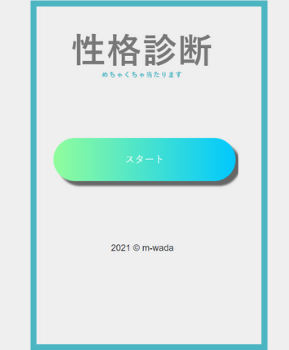
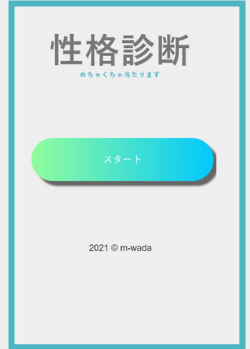
説明追加

diff --git a/resources/sass/sample.scss b/resources/sass/sample.scss
@@ -523,9 +523,8 @@ p {
 
 .main-heading-primary {
     display: block;
-    font-size: 3.5rem;
+    font-size: 3.0rem;
     font-weight: bold;
-    letter-spacing: 2px;
     animation: moveInLeft 1s ease-out;
 }
 
@@ -612,4 +611,27 @@ $line:#06C152;
         background-image: none;
         color: #efefef;
     }
+}
+
+// ＝＝＝＝＝＝＝＝＝＝＝＝＝＝＝＝＝修正分
+.explanation {
+    color: #777;
+    font-size: 10px;
+}
+
+.explanation_word {
+    display: flex;
+}
+
+.neta {
+    width: 250px;
+}
+
+.flow {
+    font-weight: bold;
+}
+
+.explanation_sentence {
+    font-size: 12px;
+    font-weight: bold;
 }

diff --git a/resources/views/about.blade.php b/resources/views/about.blade.php
@@ -1,35 +1,62 @@
 @extends('master')
 @section('content')
 
+<h2 class="sentence mt-4 mb-4 font-weight-bold">相手の性格診断結果を作るいたずら</h2>
+<div class="mb-3">
+    <img src="{{ asset('images/hack.png')}}" class="img-responsive neta">
+</div>
+<p class="explanation">いたずらをしましょう。</p>
+<p class="explanation">騙す相手の性格診断結果を自分が作成します。そして</p>
+<p class="explanation">「めちゃくちゃ当たる性格診断あるからやってみて」と騙す相手に渡してください</p>
+
+<p class="explanation mt-2 mb-2 explanation_sentence">診断結果にあなたが作成したものが表示されます。
+</p>
+
+<p class="explanation">「え！？めちゃくちゃあたってね？？」と相手がうろたえてる様を見てニヤニヤできるいたずらです。</p>
+<p class="explanation">占いとか診断結果にかこつけて日頃の不満をぶつけるでもいいです。※自己責任</p>
+
+
+
+<h3 class="sentence flow mt-5 mb-2">流れ</h3>
 <div class="title mb-3 text-left mt-3">
     <h4 class="sentence">
-        <span>1.</span>あなたが相手の性格診断結果を作成します</h4>
+        <span>1.</span>あなたが騙す相手の性格診断結果を作成します</h4>
     </div>
     <div class="mb-5">
-        <img src="{{ asset('images/about.png')}}" class="img-responsive">
+        <img src="{{ asset('images/about1.png')}}" class="img-responsive">
     </div>
 
     
-    <div class="title mb-4 text-left">
+    <div class="title text-left">
         <h4 class="sentence">
-            <span>2.</span>偽性格診断のURLが作成されますので<br>コピー or そのまま偽性格診断</h4>
-        </div>
-        
-        <div class="title mb-3 text-left">
-            <h4 class="sentence">
-                <span>3.</span>相手に性格診断をさせます。どうでもいい質問が5問出題されます</h4>
-            </div>
-            <div class="mb-5">
-                <img src="{{ asset('images/about2.png')}}" class="img-responsive">
-            </div>
-
-
-    <div class="title mb-3 text-left">
-        <h4 class="sentence">
-            <span>4.</span>診断結果にあなたの作成されたものが表示されます</h4>
+            <span>2.</span>性格診断が作成されるので<br>URLをコピーして送る or <br>そのまま性格診断</h4>
         </div>
         <div class="mb-5">
+            <img src="{{ asset('images/about5.png')}}" class="img-responsive">
+        </div>
+        
+        <div class="title text-left">
+            <h4 class="sentence">
+                <span>3.</span>ここで騙す相手に性格診断をさせます。<br>どうでもいい質問が5問出題されます</h4>
+            </div>
+            <div class="mb-2">
+                <img src="{{ asset('images/about2.png')}}" class="img-responsive">
+            </div>
+            <p class="explanation">どうでもいい質問</p>
+
+            <div class="mb-5">
+                <img src="{{ asset('images/about4.png')}}" class="img-responsive">
+            </div>
+
+
+    <div class="title text-left">
+        <h4 class="sentence">
+            <span>4.</span>診断結果にあなたが作成したものが表示されます</h4>
+        </div>
+        <div class="mb-2">
             <img src="{{ asset('images/about3.png')}}" class="img-responsive">
         </div>
-        <a href="{{ url('/input')}}"  class="button mt-5" onclick="clickBtn3()">入力する</a>
+        <p class="explanation m-3">ネタばらしは「実は作成したものです」と表示されます</p>
+
+        <a href="{{ url('/input')}}"  class="button mt-5" onclick="clickBtn3()">作成する</a>
 @endsection

diff --git a/resources/views/home.blade.php b/resources/views/home.blade.php
@@ -5,16 +5,16 @@
     <meta charset="UTF-8">
     <meta name="viewport" content="width=device-width, initial-scale=1.0">
     <meta http-equiv="X-UA-Compatible" content="ie=edge">
-    <title>偽性格診断</title>
-    <meta name="description" content="相手の性格診断をあなたが作成してみよう！">
-    <meta property="og:title" content="偽性格診断"/>
-    <meta property="og:description" content="相手の性格診断をあなたが作成してみよう！"/>
+    <title>フェイク診断</title>
+    <meta name="description" content="あなたが相手の性格診断結果を作成して相手をだまそう">
+    <meta property="og:title" content="フェイク診断"/>
+    <meta property="og:description" content="あなたが相手の性格診断結果を作成して相手をだまそう"/>
     <meta property="og:image" content="{{ asset('images/about.png')}}"/>
     <meta property="og:url" content="https://personality-judge.herokuapp.com"/>
     <meta property="og:type" content="article"/>
     <meta name="twitter:card" content="summary" />
-    <meta name="twitter:title" content="偽性格診断" />
-    <meta name="twitter:description" content="相手の性格診断をあなたが作成してみよう！" />
+    <meta name="twitter:title" content="フェイク診断" />
+    <meta name="twitter:description" content="あなたが相手の性格診断結果を作成して相手をだまそう" />
     <meta name="twitter:image" content="{{ asset('images/about.png')}}" />
     <link href="{{ mix('/css/app.css') }}" rel="stylesheet">
     <link href="{{ mix('/sass/sample.css') }}" rel="stylesheet">
@@ -37,25 +37,21 @@
 
         <div class="main mt-5 mb-5">
             <h1 class="main-heading">
-              <span class="main-heading-primary">偽性格診断</span>
+              <span class="main-heading-primary">フェイク診断</span>
               <span class="main-heading-secondary">
                 You make a personality diagnosis</span>
             </h1>
           </div>
         
-        
-        {{-- <a href="{{ url('/about') }}">説明</a>
-        <a href="{{ url('/input') }}">入力</a> --}}
 
         <div class="next mb-5">
-            {{-- <button class="btn btn-primary" type="button"><a href="{{ url('/input') }}" onclick="clickBtn3()">入力</a></button> --}}
-            <a href="{{ url('/input') }}" class="button" onclick="clickBtn3()">入力</a>
+            <a href="{{ url('/about') }}" class="button" onclick="clickBtn3()">入力</a>
         </div>
         
 
-        <div class="sentence mt-5 mb-5">
+        {{-- <div class="sentence mt-5 mb-5">
             <a href="{{ url('/about') }}"  onclick="clickBtn3()">もう少し詳しく聞きたい</a>
-        </div>
+        </div> --}}
 
         <div class="share_home mt-5">
             <a class="fab fa-twitter-square twiiter fa-3x pr-1 pl-1" href="https://twitter.com/share?url=https://personality-judge.herokuapp.com&text=【偽性格診断】をつくってみよう" rel="nofollow" target="_blank"></a>

diff --git a/resources/views/input.blade.php b/resources/views/input.blade.php
@@ -11,7 +11,8 @@
 <div class="question mt-5 mb-5">
     <div class="title mb-3 text-left">
         <h3 class="sentence">
-           <span>1.</span>定型文を決める</h3>
+           <span>1.</span>相手の性格を選ぶ</h3>
+           <p class="explanation">騙す相手に近い性格を選ぶことで、どこにでもある胡散臭い定型文を付け足すことになります。</p>
     </div>
     <div class="content">
         {{-- <select name="sentence_id"  value="{{ old('sentence_id') }}">
@@ -35,7 +36,8 @@
 <div class="question mt-5 mb-5">
     <div class="title mb-3 text-left">
         <h3 class="sentence">
-            <span>2.</span>本音を書く</h3>
+            <span>2.</span>騙す相手の診断結果を書く</h3>
+            <p class="explanation">騙す相手に性格診断をさせた後に出てくる結果を、記入してください。<br>そうです相手がどのように質問を答えようが結果はこれが表示されます。</p>
     </div>
     <div class="content ">
         {{-- <textarea name="text">{{ old('text') }}</textarea> --}}
@@ -47,6 +49,11 @@
     oninput="textAreaHeightSet(this)"
     onchange="textAreaHeightSet(this)">{{ old('text') }}</textarea>
     </div>
+
+    <div class="explanation explanation_word">
+        <p>例)</p>
+        <p>男のくせにゴキブリ苦手。人の名前を覚えるのが苦手。<br>ご飯いくとき場所をスパっと決めてくれない、そのくせ頼むのも遅い etc...</p>
+    </div>
 </div>
 
 
@@ -54,6 +61,7 @@
 <div class="question mt-5 mb-5">
     <div class="title mb-3 text-left">
         <h3 class="sentence"><span>3.</span>ネタばらしをする</h3>
+        <p class="explanation">はいを選ぶと最後にあなたが作成したことをネタばらしします</p>
     </div>
     <div class="content text-center">
         <div class="check">
@@ -68,20 +76,14 @@
 </div>
 
 
-        </div>
-    </div>
+
+</div>
+</div>
 </div>
 
-
-
-
-
-
-
-
-
-
-
+<div class="sentence mt-5 mb-5">
+    <a href="{{ url('/about') }}"  onclick="clickBtn3()">もう一度説明を見る</a>
+</div>
 
 @if ($errors->any())
 <div style="color:red;">

diff --git a/resources/views/game/success.blade.php b/resources/views/game/success.blade.php
@@ -11,6 +11,7 @@
     <div>
         <button id="copy" class="button" class="button coisbg" onclick="copy()" value="{{ url ('/game.home', $id) }}">クリックでコピー</button>
     </div>
+    <p class="mt-3 explanation">コピーしたら騙す相手に送りつけよう！</p>
     {{-- <div class="mt-4 share">
         <a class="share_button button" href="{{ url ('/game.home', $id) }}" target="_blank" rel="nofollow">ラインで共有する</a>
     </div> --}}
@@ -31,6 +32,7 @@
     <div class="next">
         <a href="{{ url ('/game.home', $id) }}" class="button" onclick="clickBtn3()">URLへ</a>
     </div>
+    <p class="mt-3 explanation">性格診断が始まるので騙す相手に渡そう！</p>
 
 
 @endsection

diff --git a/resources/views/master.blade.php b/resources/views/master.blade.php
@@ -5,8 +5,8 @@
     <meta charset="UTF-8">
     <meta name="viewport" content="width=device-width, initial-scale=1.0">
     <meta http-equiv="X-UA-Compatible" content="ie=edge">
-    <title>偽性格診断</title>
-    <meta name="description" content="あなたが作成する相手の性格診断">
+    <title>フェイク診断</title>
+    <meta name="description" content="あなたが相手の性格診断結果を作成して相手をだまそう">
     <link href="{{ mix('/css/app.css') }}" rel="stylesheet">
     <link href="{{ mix('/sass/sample.css') }}" rel="stylesheet">
     <script src="{{ mix('js/all.js') }}" async></script>

diff --git a/resources/views/netabarashi.blade.php b/resources/views/netabarashi.blade.php
@@ -1,0 +1,15 @@
+@extends('master')
+@section('content')
+
+<h4 class="sentence mt-3 font-weight-bold">
+    この性格診断結果は作成されたものです！</h4>
+
+<div class="mb-3">
+    <img src="{{ asset('images/dokkiri.png')}}" class="img-responsive neta mt-2">
+        <p>誰かにおすすめされましたよね？</p>
+        <p>さっきの診断結果はその人が作成したものです！</p>
+    </div>
+
+
+        <a href="{{ url('/')}}"  class="button mt-2" onclick="clickBtn3()">あなたも誰かの作ってみよう！</a>
+@endsection

diff --git a/resources/views/game/result.blade.php b/resources/views/game/result.blade.php
@@ -45,11 +45,11 @@
 
 
 @if ($text -> show_id ===1)
-<a href="{{url('/')}}" class="button mt-5 mb-5" onclick="clickBtn3()">ネタばらし</a>
+<a href="{{url('/netabarashi')}}" class="button mt-5 mb-5" onclick="clickBtn3()">実は・・・</a>
 @endif
 
 <footer class="footer">2021 © m-wada</footer>
-</div>        
+</div>     
 
 
 

diff --git a/resources/views/check.blade.php b/resources/views/check.blade.php
@@ -1,9 +1,8 @@
 @extends('master')
 @section('content')
 <div class="sentence mt-5 mb-4">
-	<p>以下のように表示されます</p>
+	<p>騙す相手が質問に答えた後<br>以下のように表示されます</p>
 </div>
-
 
 
 

diff --git a/routes/web.php b/routes/web.php
@@ -27,6 +27,11 @@ Route::get('/about', function () {
     return view('about');
 });
 
+//ネタばらし
+Route::get('/netabarashi', function () {  
+  return view('netabarashi');
+});
+
   
 
 // 入力画面
